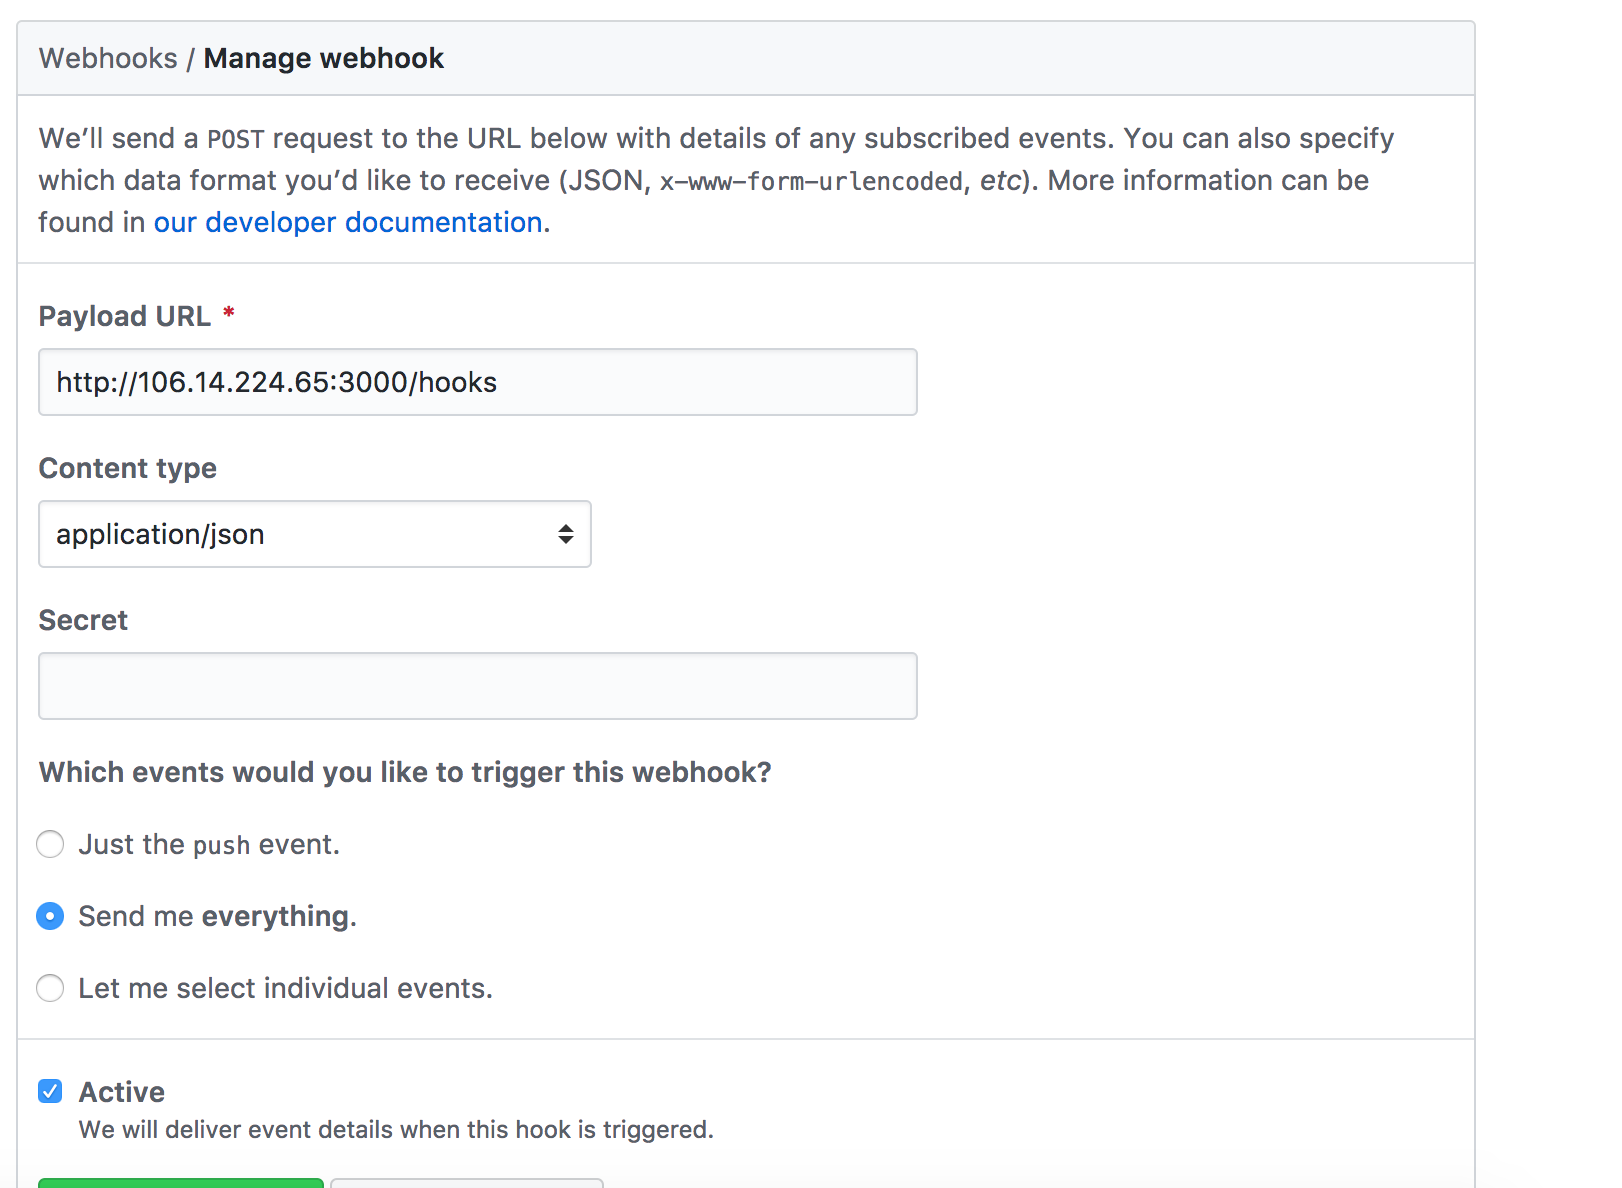
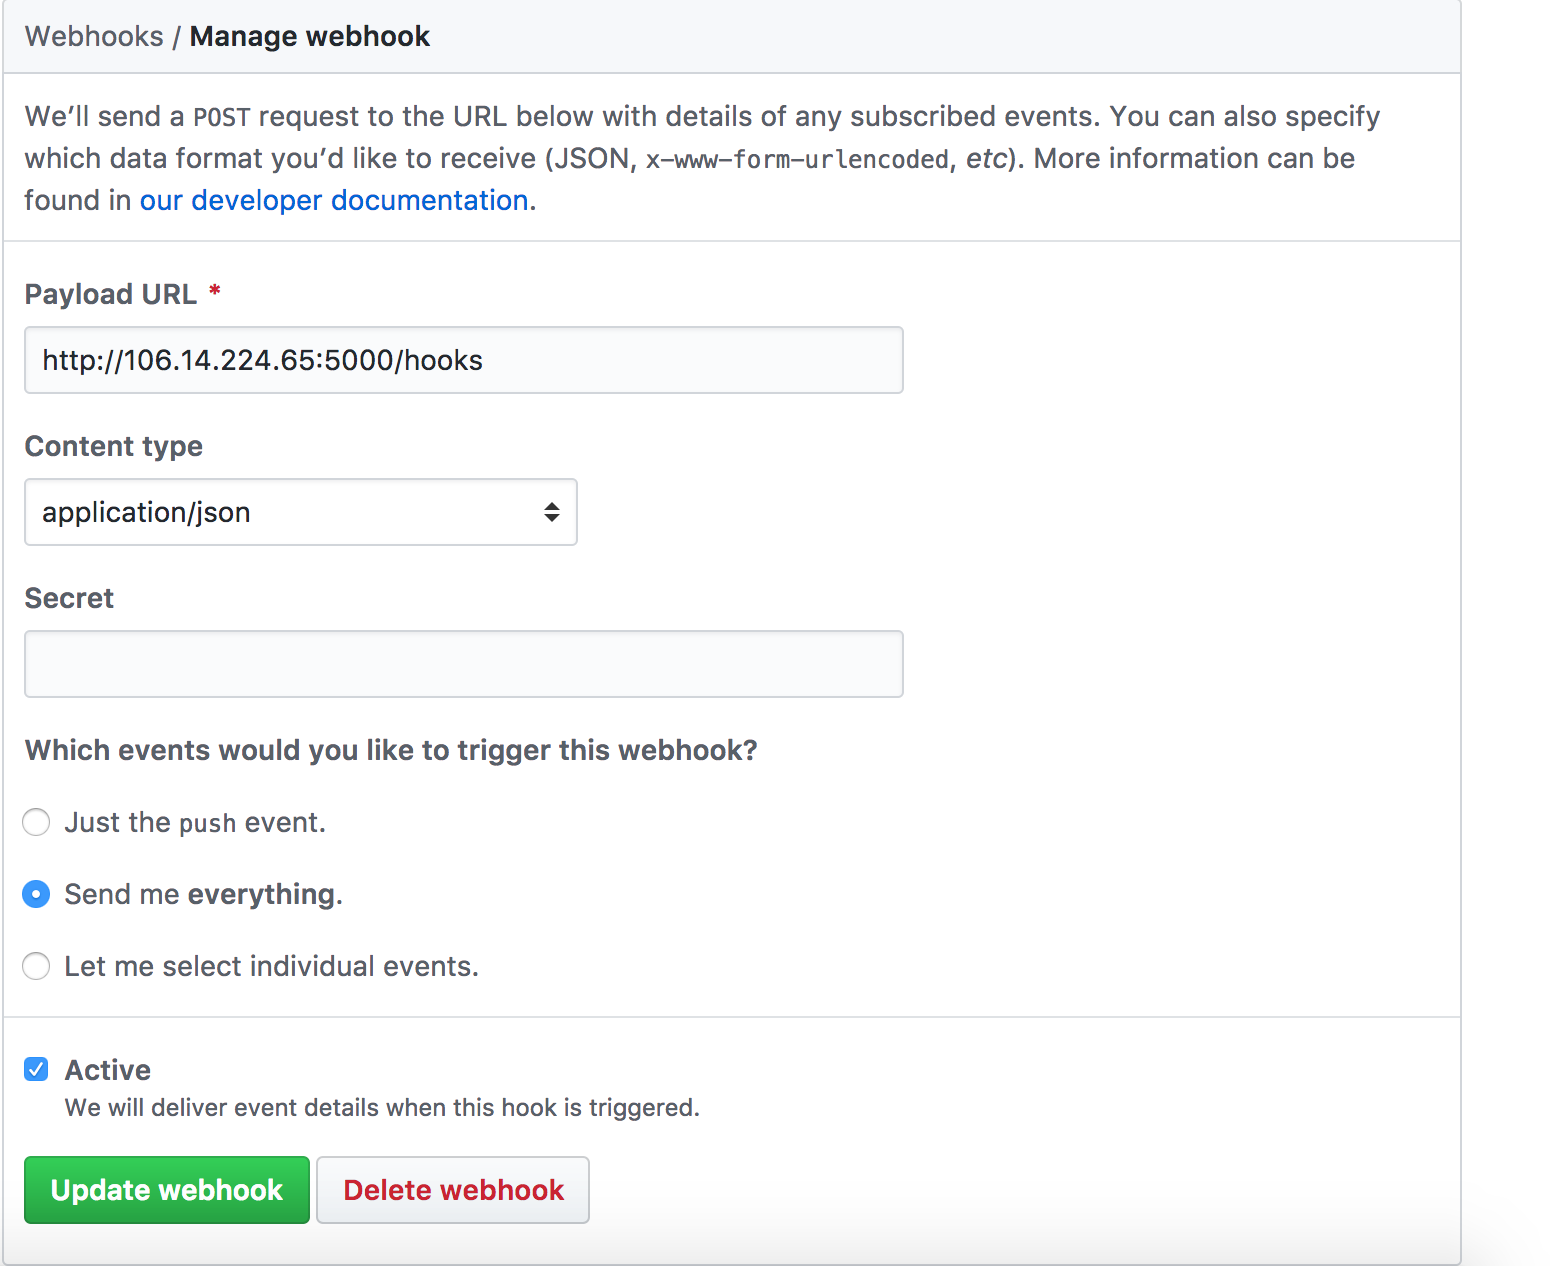
update README.md

Changed region(s): [[0.0, 0.0, 0.96, 1.0]]

diff --git a/README.md b/README.md
@@ -5,7 +5,7 @@
 ![](img/step1.png)
 
 2. 填入如下内容  
-url: http://106.14.224.65:3000/hooks  
+url: http://106.14.224.65:5000/hooks  
 content-type 选 application/json  
 触发事件选择 Send me everything  
 最后点 Add webhook
@@ -14,3 +14,13 @@ content-type 选 application/json
 
 ### 添加机械人好友
 在微信上搜索 bot-wx，添加好友时附带 github 的用户名，机械人会根据这个备注进行消息转发
+
+### 参与开发
+fork 本仓库  
+  
+安装依赖 npm i  
+
+进行开发 npm run dev （建议再申请一个微信号做调试）
+
+### 一点说明
+本地开发的时候，会与我的服务器进行一个 socket 长连接，进而能转发 webhook 的请求到本地服务器，本地收到的请求内容就是 webhook 发送给服务端的内容，具体细节可参考 src/proxy.js 文件
